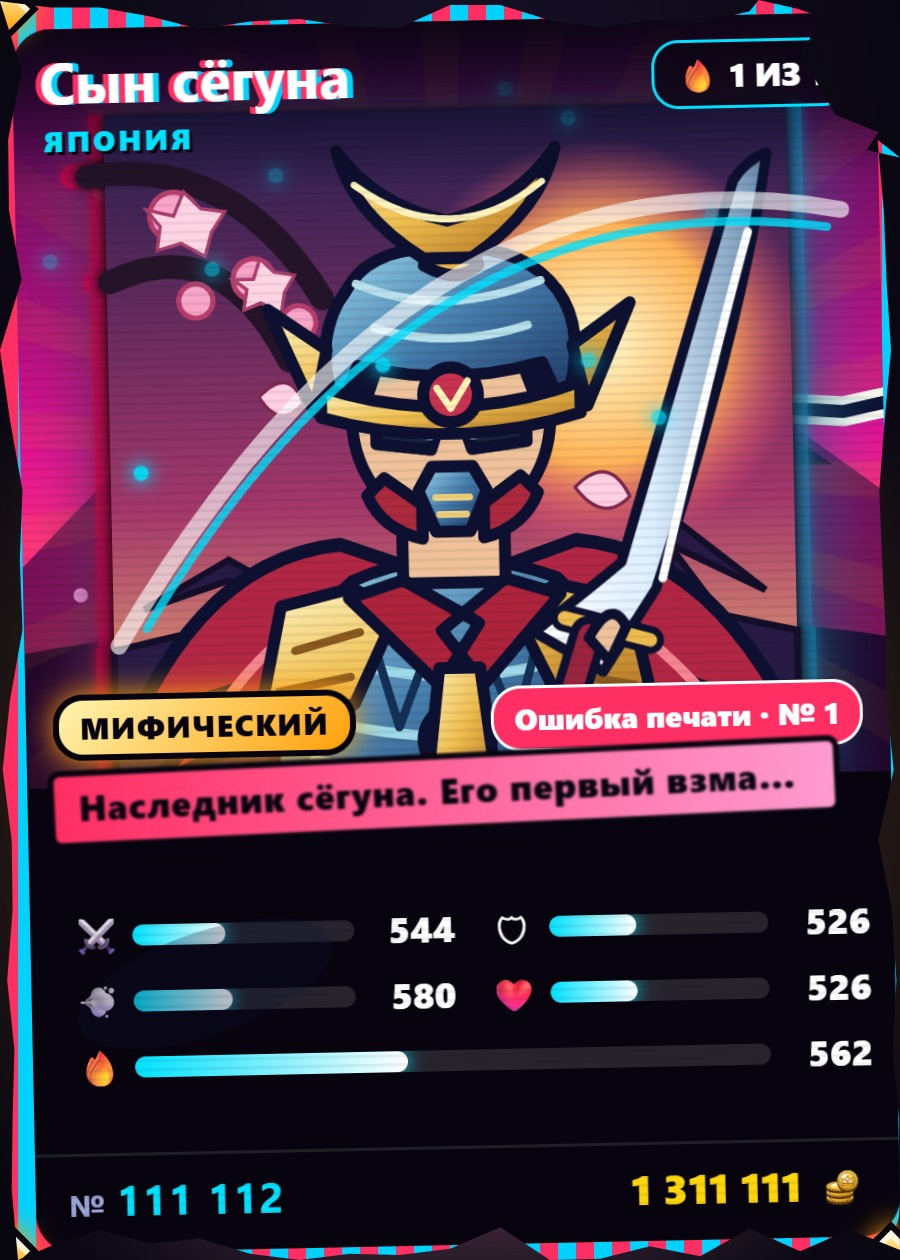
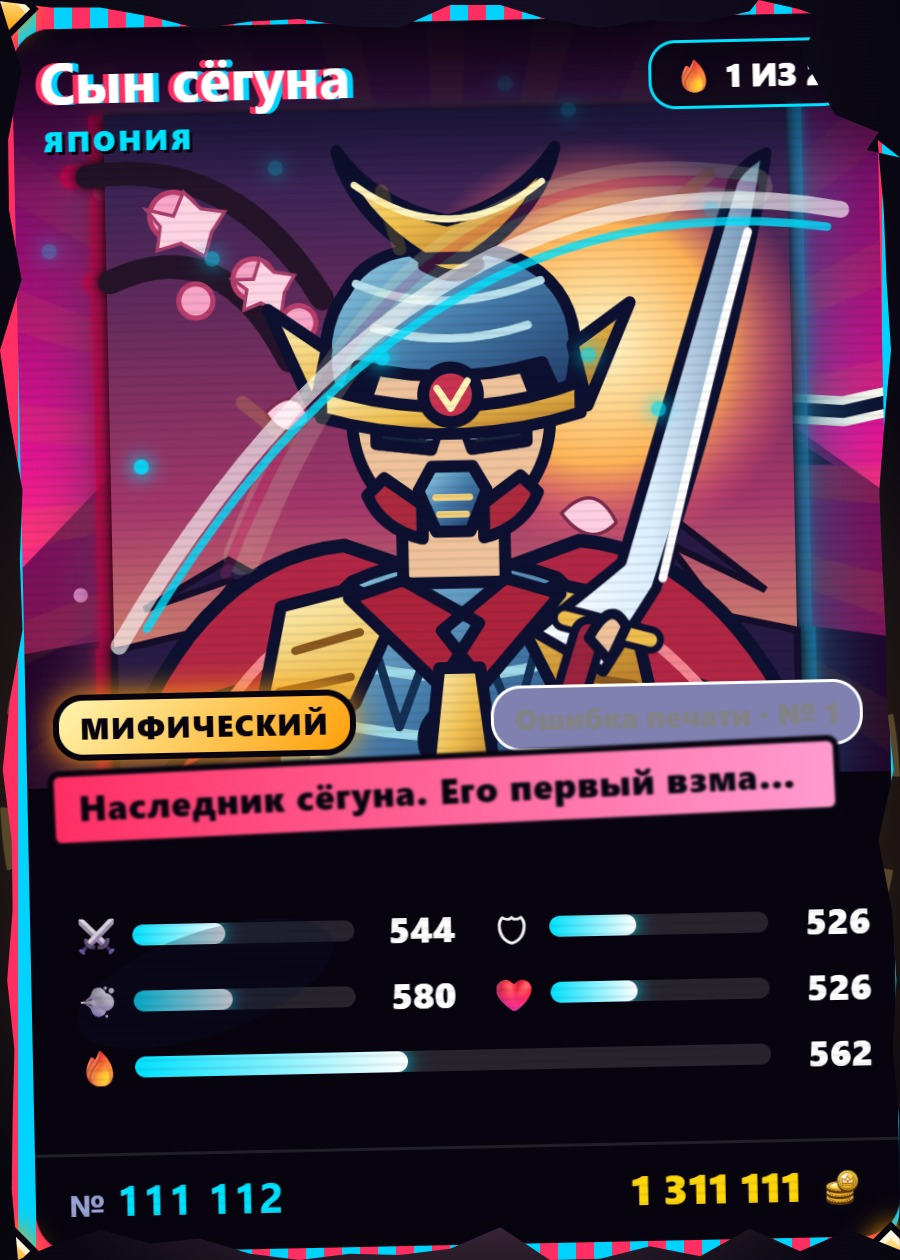
Keep Son of Shogun spin copy after purchase

diff --git a/server/worker.js b/server/worker.js
@@ -778,11 +778,12 @@ const DUEL_MIN=[60,130,260,500,1000];function duelBase(me,opp){return Math.min(M
 /* редкая карта (легенда, миф или любая отделка кроме обычной) — 10 000 монет за победу */
 const DUEL_RARE=10000,duelRare=c=>((HEROES[c.h]||[])[2]|0)>=3||(c.f|0)>0;function duelPay(me,opp){return duelRare(me)?DUEL_RARE:Math.round(duelBase(me,opp)*.3+5)}
 function dcSn(ctx,c,sn){try{if(sn&&ctx.snFree&&ctx.snFree(sn)){const v0=priceOf(c.h,c.f,c.no,c.sn,0)||1;c.sn=sn;if(ctx.takeSn)ctx.takeSn(sn);c.v=Math.round(c.v*(priceOf(c.h,c.f,c.no,sn,0)/v0)*100)/100}}catch(e){}}
-const SON_SHOGUN={name:"Сын сёгуна",sn:"111112",value:1311111,stats:[544,526,580,526,562]};
+const SON_SHOGUN={name:"Сын сёгуна",snBuy:"111112",snSpin:["111113","111114","111115","111116","111117","111118","111119"],value:1311111,stats:[544,526,580,526,562]};
 function dayCardMake(ctx,h,how){const son=HEROES[h][0]===SON_SHOGUN.name,preset=son?{stats:SON_SHOGUN.stats}:null;
-  if(son&&!ctx.snFree(SON_SHOGUN.sn))fail("Уникальный номер карты дня уже занят");
-  const c=makeCard(ctx,h,4,preset);c.how=how;dcSn(ctx,c,son?SON_SHOGUN.sn:HEROES[h][4][how==="dspin"?"sn2":"sn"]);
-  if(son){if(c.sn!==SON_SHOGUN.sn)fail("Уникальный номер карты дня уже занят");c.v=SON_SHOGUN.value}return c}
+  const sn=son?(how==="dspin"?SON_SHOGUN.snSpin.find(n=>ctx.snFree(n)):SON_SHOGUN.snBuy):HEROES[h][4][how==="dspin"?"sn2":"sn"];
+  if(son&&(!sn||!ctx.snFree(sn)))fail("Уникальный номер карты дня уже занят");
+  const c=makeCard(ctx,h,4,preset);c.how=how;dcSn(ctx,c,sn);
+  if(son){if(c.sn!==sn)fail("Уникальный номер карты дня уже занят");c.v=SON_SHOGUN.value}return c}
 function xhApply(X){for(const k in X||{}){const H=HEROES[+k],x=X[k];if(!H||!H[4].day||!x)continue;H[0]=String(x.n||"Карта дня").slice(0,40);H[1]=String(x.e||"Карта дня").slice(0,40);H[3]=String(x.d||"").slice(0,200);
   const o=x.o||{};for(const q of ["helm","weapon","armor","shield","cape","hair","hairc","glow","crest","fierce","female","gold","hue","skin","x","p","sn","sn2"])if(o[q]!=null)H[4][q]=o[q];H[4].hid=x.on?0:1}}
 SHOP.kolobok={n:"Колобок · Ошибка печати",stars:1700,kolo:1,until:Date.UTC(2026,10,12,20,59),d:["🟡 <b>Колобок</b> — анимированная «Ошибка печати»","продаётся <b>только сегодня</b> до 23:59","потом пропадёт — вернётся ли, неизвестно"]};
@@ -2436,8 +2437,8 @@ async function doAction(env,me,name,p,extra){try{await xhLoad(env)}catch(e){}let
       if(id===ctx.giveAway)stm.push(env.DB.prepare(`UPDATE cards SET owner=? WHERE id=? AND owner=? AND list_price IS NULL AND ${guard}`).bind(ctx.oppUid,id,me.id,me.id,nv));   // проиграл игроку: карточка уходит к нему
       else stm.push(env.DB.prepare(`DELETE FROM cards WHERE id=? AND owner=? AND list_price IS NULL AND room_id IS NULL AND ${guard}`).bind(id,me.id,me.id,nv))}
     stm.push(...ins);
-    for(const c of out.cards)if(typeof c.id==="string"&&(c.how==="dspin"||c.how==="dbuy")&&dcOf(c.h)?.one)
-      stm.push(env.DB.prepare(`INSERT INTO kv(k,v) SELECT ?,? WHERE ${guard}`).bind("dc:claimed:"+c.h,JSON.stringify({how:c.how,uid:me.id,t:ctx.now}),me.id,nv));
+    for(const c of out.cards)if(typeof c.id==="string"&&(c.how==="dspin"||c.how==="dbuy")&&(dcOf(c.h)?.one||HEROES[c.h][0]===SON_SHOGUN.name))
+      stm.push(env.DB.prepare(`INSERT INTO kv(k,v) SELECT ?,? WHERE ${guard}`).bind("dc:claimed:"+c.h+(HEROES[c.h][0]===SON_SHOGUN.name?":"+c.how:""),JSON.stringify({how:c.how,uid:me.id,t:ctx.now}),me.id,nv));
     if(take)stm.unshift(take);
     let rs;try{rs=await env.DB.batch(stm)}catch(e){if(/UNIQUE/i.test(String(e&&e.message||e)))continue;throw e}
     if(take&&rs[0].meta.changes!==1)fail("Соперник только что убрал эту карточку. Бой отменён, попробуй ещё раз");
@@ -4025,7 +4026,7 @@ const DC_PLAN={"2026-11-14":[{n:"Кощей",e:"Сказки Руси",d:"Бес
   "2026-11-18":[{n:"Один",e:"Асгард",d:"Всеотец богов. Отдал глаз за мудрость, а вороны Хугин и Мунин каждое утро приносят ему вести со всего мира. Копьё Гунгнир никогда не промахивается.",o:{p:[9,8,8,8,9],sn:"171117",sn2:"111000"},from:15,to:20.5,stars:3200,ch:.0004,lock:3,one:1},
   {n:"Банда",e:"Сказки и легенды",d:"Баба Яга, Кощей и Дракула снова вместе. Яга кружит в ступе, Кощей крутит свою иглу, а Дракула так и норовит кого-нибудь укусить.",o:{p:[7,7,7,7,7],sn:"373737",sn2:"474747"},from:15,to:20.5,stars:2500,ch:.0006,lock:3},
   {n:"Локи",e:"Асгард",d:"Бог обмана. Огонь вместо волос, змей Ёрмунганд на плечах и маска лиса в руке. Моргнёшь — и рядом уже двое Локи. Какой из них настоящий?",o:{p:[8,8,8,8,8],sn:"181118",sn2:"666000"},from:15,to:20.5,stars:2500,ch:.0004,lock:3,one:1}],
-  "2026-11-22":[{n:"Сын сёгуна",e:"Япония",d:"Наследник сёгуна. Его первый взмах катаны решает судьбу поединка.",o:{p:[8,7,10,7,9],sn:"111112",sn2:"111112"},from:18,to:22,stars:3311,ch:DSP.ch,one:1,guarantee:1}]};
+  "2026-11-22":[{n:"Сын сёгуна",e:"Япония",d:"Наследник сёгуна. Его первый взмах катаны решает судьбу поединка.",o:{p:[8,7,10,7,9],sn:"111112",sn2:"111113"},from:18,to:22,stars:3311,ch:DSP.ch,guarantee:1}]};
 let DCS=[];
 async function xhLoad(env,force){if(!force&&Date.now()-XHT<15e3)return;XHT=Date.now();try{XH=(await kvGet(env,"xh"))||{}}catch(e){XH={}}try{DC=await kvGet(env,"dc")}catch(e){DC=null}
   DCS=[];let k=0;Object.keys(DC_PLAN).sort().forEach(d=>{for(const P of [].concat(DC_PLAN[d])){const h=DAY_SLOTS[k++];if(h==null)return;XH[h]={...P,on:1};const [y,m,dd]=d.split("-").map(Number),at=Date.UTC(y,m-1,dd)+(P.from!=null?P.from:16)*36e5,until=Date.UTC(y,m-1,dd)+(P.to!=null?P.to:20)*36e5;
@@ -4033,6 +4034,12 @@ async function xhLoad(env,force){if(!force&&Date.now()-XHT<15e3)return;XHT=Date.
   xhApply(XH)}
 const dcOf=h=>DCS.find(x=>x.h===h)||null,dcOn=h=>{const X=h!=null?dcOf(h):DC;return !!(X&&Date.now()>=X.at&&Date.now()<X.until)};
 async function dcLeft(env,except,h){const X=h!=null?dcOf(h):DC;if(!X)return {buy:0,spin:0};const sold=((await env.DB.prepare("SELECT COUNT(*) AS n FROM payments WHERE item='daycard' AND created>=? AND id<>? AND COALESCE(json_extract(p,'$.h'),?)=? AND (status IN ('paid','done') OR (status='new' AND created>?))").bind(X.at-36e5,except||0,DCS[0]?DCS[0].h:X.h,X.h,Date.now()-PAY_HOLD).first())||{}).n||0;
+  const son=HEROES[X.h][0]===SON_SHOGUN.name;
+  if(son){const old=await env.DB.prepare("SELECT v FROM kv WHERE k=?").bind("dc:claimed:"+X.h).first();let oldHow="";try{oldHow=JSON.parse(old?.v||"{}").how||""}catch(e){}
+    const buy=oldHow==="dbuy"||!!(await env.DB.prepare("SELECT 1 FROM kv WHERE k=?").bind("dc:claimed:"+X.h+":dbuy").first());
+    const spin=oldHow==="dspin"||!!(await env.DB.prepare("SELECT 1 FROM kv WHERE k=?").bind("dc:claimed:"+X.h+":dspin").first());
+    const sp=((await env.DB.prepare("SELECT COUNT(*) AS n FROM cards WHERE h=? AND how='dspin'").bind(X.h).first())||{}).n||0;
+    return {buy:X.so?0:Math.max(0,1-sold-(buy?1:0)),spin:X.ns?0:Math.max(0,1-sp-(spin?1:0))}}
   if(X.one&&await env.DB.prepare("SELECT 1 FROM kv WHERE k=?").bind("dc:claimed:"+X.h).first())return {buy:0,spin:0};
   const sp=((await env.DB.prepare("SELECT COUNT(*) AS n FROM cards WHERE h=? AND how='dspin'").bind(X.h).first())||{}).n||0;if(X.one){const t=sold+sp;return {buy:X.so?0:Math.max(0,1-t),spin:X.ns?0:Math.max(0,1-t)}}return {buy:X.so?0:Math.max(0,1-sold),spin:X.ns?0:Math.max(0,1-sp)}}
 /* шанс Особого прокрута: у карты «только из прокрута» он растёт к концу, чтобы до полуночи её точно кто-то выбил */
@@ -5746,11 +5753,18 @@ async function relicReleaseTick(env){
  const chat=await relicReleasePhoto(env,"chat",env.CHAT||CHAT,base+"relics-chat.jpg");
  if(channel&&chat)await kvSet(env,"relic-release-20261120-art2",1);
 }
-const SON_RELEASE_TEXT="⚔ КАРТА ДНЯ: СЫН СЁГУНА!\n\nСегодня до 01:00 по Минску в игре доступна новая анимированная «Ошибка печати». Взмах катаны, лепестки сакуры и всего 1 экземпляр на всю игру.\n\n🎴 Оценка карты — 1 311 111 🪙\n⭐ Купить — 3311 звёзд\n🎰 Или выбить в Особом прокруте: шанс 0,3% до полуночи. С 00:00 до 01:00 первый Особый прокрут получает карту гарантированно, если её ещё не забрали.\n\nКарта достанется тому, кто первым её купит или выбьет. После 01:00 событие завершится.\n\n👉 @VoinyEpohBot";
+const SON_RELEASE_TEXT="⚔ КАРТА ДНЯ: СЫН СЁГУНА!\n\nДо 01:00 по Минску доступны 2 анимированные «Ошибки печати»: одна за 3311 ⭐ (№ 111112), вторая — только из Особого прокрута, с отдельным красивым номером. Покупка не закрывает шанс выбить вторую карту.\n\n🎴 Оценка каждой — 1 311 111 🪙\n🎰 Шанс в Особом прокруте до 00:00 — 0,3%. С 00:00 до 01:00 первый Особый прокрут гарантированно выбьет вторую карту, если её ещё не выбили.\n\nПосле 01:00 событие завершится.\n\n👉 @VoinyEpohBot";
 async function sonReleaseTick(env){const now=Date.now(),at=Date.UTC(2026,10,22,18),until=Date.UTC(2026,10,22,22);
  if(!env.BOT_TOKEN||env.DEV==="1"||now<at||now>=until)return;
- await recruitSend(env,"son-shogun-20261122:channel",env.CHANNEL||CHANNEL,SON_RELEASE_TEXT,
-  "https://raw.githubusercontent.com/prostovladon-prog/kruti-kvartiru-/main/assets/day-son-shogun.jpg");
+ const chan=env.CHANNEL||CHANNEL,photo="https://raw.githubusercontent.com/prostovladon-prog/kruti-kvartiru-/main/assets/day-son-shogun.jpg?v=2";
+ if(!(await recruitSend(env,"son-shogun-20261122:channel",chan,SON_RELEASE_TEXT,photo)))return;
+ if(await kvGet(env,"son-shogun-20261122:corrected"))return;
+ const sent=await kvGet(env,birthdayKey("recruit:son-shogun-20261122:channel"));if(!sent?.mid)return;
+ let r=await tgApi(env,"editMessageMedia",{chat_id:chan,message_id:sent.mid,media:{type:"photo",media:photo,caption:SON_RELEASE_TEXT},reply_markup:birthdayButton});
+ if(!r?.ok&&/message is not modified/i.test(r?.description||""))r={ok:true};
+ if(!r?.ok){await tgApi(env,"editMessageCaption",{chat_id:chan,message_id:sent.mid,caption:SON_RELEASE_TEXT,reply_markup:birthdayButton});
+   if(await recruitSend(env,"son-shogun-20261122:correction",chan,SON_RELEASE_TEXT,photo))r={ok:true}}
+ if(r?.ok)await kvSet(env,"son-shogun-20261122:corrected",1);
 }
 
 export default {

diff --git a/server/server.js b/server/server.js
@@ -769,8 +769,8 @@ async function doAction(env,me,name,p,extra){try{await xhLoad(env)}catch(e){}let
       if(id===ctx.giveAway)stm.push(env.DB.prepare(`UPDATE cards SET owner=? WHERE id=? AND owner=? AND list_price IS NULL AND ${guard}`).bind(ctx.oppUid,id,me.id,me.id,nv));   // проиграл игроку: карточка уходит к нему
       else stm.push(env.DB.prepare(`DELETE FROM cards WHERE id=? AND owner=? AND list_price IS NULL AND room_id IS NULL AND ${guard}`).bind(id,me.id,me.id,nv))}
     stm.push(...ins);
-    for(const c of out.cards)if(typeof c.id==="string"&&(c.how==="dspin"||c.how==="dbuy")&&dcOf(c.h)?.one)
-      stm.push(env.DB.prepare(`INSERT INTO kv(k,v) SELECT ?,? WHERE ${guard}`).bind("dc:claimed:"+c.h,JSON.stringify({how:c.how,uid:me.id,t:ctx.now}),me.id,nv));
+    for(const c of out.cards)if(typeof c.id==="string"&&(c.how==="dspin"||c.how==="dbuy")&&(dcOf(c.h)?.one||HEROES[c.h][0]===SON_SHOGUN.name))
+      stm.push(env.DB.prepare(`INSERT INTO kv(k,v) SELECT ?,? WHERE ${guard}`).bind("dc:claimed:"+c.h+(HEROES[c.h][0]===SON_SHOGUN.name?":"+c.how:""),JSON.stringify({how:c.how,uid:me.id,t:ctx.now}),me.id,nv));
     if(take)stm.unshift(take);
     let rs;try{rs=await env.DB.batch(stm)}catch(e){if(/UNIQUE/i.test(String(e&&e.message||e)))continue;throw e}
     if(take&&rs[0].meta.changes!==1)fail("Соперник только что убрал эту карточку. Бой отменён, попробуй ещё раз");
@@ -2358,7 +2358,7 @@ const DC_PLAN={"2026-11-14":[{n:"Кощей",e:"Сказки Руси",d:"Бес
   "2026-11-18":[{n:"Один",e:"Асгард",d:"Всеотец богов. Отдал глаз за мудрость, а вороны Хугин и Мунин каждое утро приносят ему вести со всего мира. Копьё Гунгнир никогда не промахивается.",o:{p:[9,8,8,8,9],sn:"171117",sn2:"111000"},from:15,to:20.5,stars:3200,ch:.0004,lock:3,one:1},
   {n:"Банда",e:"Сказки и легенды",d:"Баба Яга, Кощей и Дракула снова вместе. Яга кружит в ступе, Кощей крутит свою иглу, а Дракула так и норовит кого-нибудь укусить.",o:{p:[7,7,7,7,7],sn:"373737",sn2:"474747"},from:15,to:20.5,stars:2500,ch:.0006,lock:3},
   {n:"Локи",e:"Асгард",d:"Бог обмана. Огонь вместо волос, змей Ёрмунганд на плечах и маска лиса в руке. Моргнёшь — и рядом уже двое Локи. Какой из них настоящий?",o:{p:[8,8,8,8,8],sn:"181118",sn2:"666000"},from:15,to:20.5,stars:2500,ch:.0004,lock:3,one:1}],
-  "2026-11-22":[{n:"Сын сёгуна",e:"Япония",d:"Наследник сёгуна. Его первый взмах катаны решает судьбу поединка.",o:{p:[8,7,10,7,9],sn:"111112",sn2:"111112"},from:18,to:22,stars:3311,ch:DSP.ch,one:1,guarantee:1}]};
+  "2026-11-22":[{n:"Сын сёгуна",e:"Япония",d:"Наследник сёгуна. Его первый взмах катаны решает судьбу поединка.",o:{p:[8,7,10,7,9],sn:"111112",sn2:"111113"},from:18,to:22,stars:3311,ch:DSP.ch,guarantee:1}]};
 let DCS=[];
 async function xhLoad(env,force){if(!force&&Date.now()-XHT<15e3)return;XHT=Date.now();try{XH=(await kvGet(env,"xh"))||{}}catch(e){XH={}}try{DC=await kvGet(env,"dc")}catch(e){DC=null}
   DCS=[];let k=0;Object.keys(DC_PLAN).sort().forEach(d=>{for(const P of [].concat(DC_PLAN[d])){const h=DAY_SLOTS[k++];if(h==null)return;XH[h]={...P,on:1};const [y,m,dd]=d.split("-").map(Number),at=Date.UTC(y,m-1,dd)+(P.from!=null?P.from:16)*36e5,until=Date.UTC(y,m-1,dd)+(P.to!=null?P.to:20)*36e5;
@@ -2366,6 +2366,12 @@ async function xhLoad(env,force){if(!force&&Date.now()-XHT<15e3)return;XHT=Date.
   xhApply(XH)}
 const dcOf=h=>DCS.find(x=>x.h===h)||null,dcOn=h=>{const X=h!=null?dcOf(h):DC;return !!(X&&Date.now()>=X.at&&Date.now()<X.until)};
 async function dcLeft(env,except,h){const X=h!=null?dcOf(h):DC;if(!X)return {buy:0,spin:0};const sold=((await env.DB.prepare("SELECT COUNT(*) AS n FROM payments WHERE item='daycard' AND created>=? AND id<>? AND COALESCE(json_extract(p,'$.h'),?)=? AND (status IN ('paid','done') OR (status='new' AND created>?))").bind(X.at-36e5,except||0,DCS[0]?DCS[0].h:X.h,X.h,Date.now()-PAY_HOLD).first())||{}).n||0;
+  const son=HEROES[X.h][0]===SON_SHOGUN.name;
+  if(son){const old=await env.DB.prepare("SELECT v FROM kv WHERE k=?").bind("dc:claimed:"+X.h).first();let oldHow="";try{oldHow=JSON.parse(old?.v||"{}").how||""}catch(e){}
+    const buy=oldHow==="dbuy"||!!(await env.DB.prepare("SELECT 1 FROM kv WHERE k=?").bind("dc:claimed:"+X.h+":dbuy").first());
+    const spin=oldHow==="dspin"||!!(await env.DB.prepare("SELECT 1 FROM kv WHERE k=?").bind("dc:claimed:"+X.h+":dspin").first());
+    const sp=((await env.DB.prepare("SELECT COUNT(*) AS n FROM cards WHERE h=? AND how='dspin'").bind(X.h).first())||{}).n||0;
+    return {buy:X.so?0:Math.max(0,1-sold-(buy?1:0)),spin:X.ns?0:Math.max(0,1-sp-(spin?1:0))}}
   if(X.one&&await env.DB.prepare("SELECT 1 FROM kv WHERE k=?").bind("dc:claimed:"+X.h).first())return {buy:0,spin:0};
   const sp=((await env.DB.prepare("SELECT COUNT(*) AS n FROM cards WHERE h=? AND how='dspin'").bind(X.h).first())||{}).n||0;if(X.one){const t=sold+sp;return {buy:X.so?0:Math.max(0,1-t),spin:X.ns?0:Math.max(0,1-t)}}return {buy:X.so?0:Math.max(0,1-sold),spin:X.ns?0:Math.max(0,1-sp)}}
 /* шанс Особого прокрута: у карты «только из прокрута» он растёт к концу, чтобы до полуночи её точно кто-то выбил */
@@ -4079,11 +4085,18 @@ async function relicReleaseTick(env){
  const chat=await relicReleasePhoto(env,"chat",env.CHAT||CHAT,base+"relics-chat.jpg");
  if(channel&&chat)await kvSet(env,"relic-release-20261120-art2",1);
 }
-const SON_RELEASE_TEXT="⚔ КАРТА ДНЯ: СЫН СЁГУНА!\n\nСегодня до 01:00 по Минску в игре доступна новая анимированная «Ошибка печати». Взмах катаны, лепестки сакуры и всего 1 экземпляр на всю игру.\n\n🎴 Оценка карты — 1 311 111 🪙\n⭐ Купить — 3311 звёзд\n🎰 Или выбить в Особом прокруте: шанс 0,3% до полуночи. С 00:00 до 01:00 первый Особый прокрут получает карту гарантированно, если её ещё не забрали.\n\nКарта достанется тому, кто первым её купит или выбьет. После 01:00 событие завершится.\n\n👉 @VoinyEpohBot";
+const SON_RELEASE_TEXT="⚔ КАРТА ДНЯ: СЫН СЁГУНА!\n\nДо 01:00 по Минску доступны 2 анимированные «Ошибки печати»: одна за 3311 ⭐ (№ 111112), вторая — только из Особого прокрута, с отдельным красивым номером. Покупка не закрывает шанс выбить вторую карту.\n\n🎴 Оценка каждой — 1 311 111 🪙\n🎰 Шанс в Особом прокруте до 00:00 — 0,3%. С 00:00 до 01:00 первый Особый прокрут гарантированно выбьет вторую карту, если её ещё не выбили.\n\nПосле 01:00 событие завершится.\n\n👉 @VoinyEpohBot";
 async function sonReleaseTick(env){const now=Date.now(),at=Date.UTC(2026,10,22,18),until=Date.UTC(2026,10,22,22);
  if(!env.BOT_TOKEN||env.DEV==="1"||now<at||now>=until)return;
- await recruitSend(env,"son-shogun-20261122:channel",env.CHANNEL||CHANNEL,SON_RELEASE_TEXT,
-  "https://raw.githubusercontent.com/prostovladon-prog/kruti-kvartiru-/main/assets/day-son-shogun.jpg");
+ const chan=env.CHANNEL||CHANNEL,photo="https://raw.githubusercontent.com/prostovladon-prog/kruti-kvartiru-/main/assets/day-son-shogun.jpg?v=2";
+ if(!(await recruitSend(env,"son-shogun-20261122:channel",chan,SON_RELEASE_TEXT,photo)))return;
+ if(await kvGet(env,"son-shogun-20261122:corrected"))return;
+ const sent=await kvGet(env,birthdayKey("recruit:son-shogun-20261122:channel"));if(!sent?.mid)return;
+ let r=await tgApi(env,"editMessageMedia",{chat_id:chan,message_id:sent.mid,media:{type:"photo",media:photo,caption:SON_RELEASE_TEXT},reply_markup:birthdayButton});
+ if(!r?.ok&&/message is not modified/i.test(r?.description||""))r={ok:true};
+ if(!r?.ok){await tgApi(env,"editMessageCaption",{chat_id:chan,message_id:sent.mid,caption:SON_RELEASE_TEXT,reply_markup:birthdayButton});
+   if(await recruitSend(env,"son-shogun-20261122:correction",chan,SON_RELEASE_TEXT,photo))r={ok:true}}
+ if(r?.ok)await kvSet(env,"son-shogun-20261122:corrected",1);
 }
 
 export default {

diff --git a/gems.js b/gems.js
@@ -80,7 +80,7 @@ function dcT(ms){ms=Math.max(0,ms);const h=Math.floor(ms/36e5),m=Math.floor(ms%3
 let dcTmr=null;
 function dcOpen(){if(!S)return;$("modal").hidden=false;dcDraw();clearInterval(dcTmr);dcTmr=setInterval(()=>{if($("modal").hidden||!$("dc-t")){clearInterval(dcTmr);return}dcDraw(1)},1000)}
 /* настоящая карточка «Ошибка печати» — как она будет выглядеть в коллекции */
-const DCF={};function dcFace(h,i){try{if(!DCF[h]){const son=HEROES[h][0]===SON_SHOGUN.name,B=cardBody(h,4,son?{stats:SON_SHOGUN.stats}:null),sn=son?SON_SHOGUN.sn:(HEROES[h][4].sn)||"000001";DCF[h]={id:"dc"+h,h,f:4,no:1,sn,hue:B.hue,stats:B.stats,v:son?SON_SHOGUN.value:priceOf(h,4,1,sn,B.top),xp:0,stars:0}}return miniSlot(DCF[h])}catch(e){return portrait(h,null)}}
+const DCF={};function dcFace(h,i){try{if(!DCF[h]){const son=HEROES[h][0]===SON_SHOGUN.name,B=cardBody(h,4,son?{stats:SON_SHOGUN.stats}:null),sn=son?SON_SHOGUN.snBuy:(HEROES[h][4].sn)||"000001";DCF[h]={id:"dc"+h,h,f:4,no:1,sn,hue:B.hue,stats:B.stats,v:son?SON_SHOGUN.value:priceOf(h,4,1,sn,B.top),xp:0,stars:0}}return miniSlot(DCF[h])}catch(e){return portrait(h,null)}}
 function dcDraw(tick){const sh=$("msheet"),L0=S.dcs||(S.dc?[S.dc]:[]),now=Date.now();
   if(tick){L0.forEach((D,i)=>{const e=$("dc-t"+i);if(e)e.textContent=now<D.at?"старт через "+dcT(D.at-now):now<D.until?"осталось "+dcT(D.until-now):"завершено"});if($("dc-x"))return}
   let h='<div class="gemw"><div class="gem-h"><b>🌙 Карта дня'+(L0.length>1?' · '+L0.length+' карты':'')+'</b><button type="button" class="ghost" id="dc-x">✕</button></div>';
@@ -89,7 +89,7 @@ function dcDraw(tick){const sh=$("msheet"),L0=S.dcs||(S.dc?[S.dc]:[]),now=Date.n
     h+='<div class="dc-card"><div class="dc-mc">'+dcFace(D.h,i)+'</div><div><b class="dc-n">'+escH(H[0])+'</b><small>'+escH(H[1])+' · Ошибка печати</small><p>'+escH(H[3])+'</p><span class="dc-t" id="dc-t'+i+'"></span></div></div>';
     h+='<div class="dc-left"><div class="'+(L.buy?"":"off")+'">⭐ За звёзды<b>'+(L.buy?"1 из 1":"продано")+'</b></div><div class="'+(L.spin?"":"off")+'">🎰 Из прокрута<b>'+(D.ns?"не выпадает":L.spin?"1 из 1":"выбита")+'</b></div></div>';
     if(D.ns)h+='<div class="dc-so">💀 '+escH(H[0])+' продаётся <b>только за звёзды</b> — в Особом прокруте не выпадает.</div>';
-    if(!D.ns)h+='<div class="dc-so">🎰 '+escH(H[0])+(D.so?' <b>не продаётся</b> — только выбить в Особом прокруте, всего 1 экземпляр.':D.one?' — <b>одна карта на всю игру</b>: достанется первому покупателю за ⭐ или победителю Особого прокрута.':' — второй экземпляр выбивается в Особом прокруте.')+' Шанс <b>'+String(+((D.ch||0)*100).toFixed(2)).replace(".",",")+'%</b> за прокрут'+(D.guarantee?' до последнего часа. В последний час — <b>100%</b> для первого Особого прокрута, если карту ещё не забрали.':': <b>одинаковый весь вечер</b>, от времени не зависит.')+'</div>';
+    if(!D.ns)h+='<div class="dc-so">🎰 '+escH(H[0])+(D.so?' <b>не продаётся</b> — только выбить в Особом прокруте, всего 1 экземпляр.':D.one?' — <b>одна карта на всю игру</b>: достанется первому покупателю за ⭐ или победителю Особого прокрута.':' — второй экземпляр выбивается в Особом прокруте, даже если первый уже купили за ⭐.')+' Шанс <b>'+String(+((D.ch||0)*100).toFixed(2)).replace(".",",")+'%</b> за прокрут'+(D.guarantee?' до последнего часа. В последний час — <b>100%</b> для первого Особого прокрута, если экземпляр из прокрута ещё не выбили.':': <b>одинаковый весь вечер</b>, от времени не зависит.')+'</div>';
     if(!D.so)h+='<button type="button" class="gem-go dc-buy" data-h="'+D.h+'"'+(on&&L.buy?"":" disabled")+'>⭐ Купить «'+escH(H[0])+'» за '+(D.stars||SHOP.daycard.stars)+'<small>достанется тому, кто оплатит первым · с '+dcHM(D.at)+' до '+dcHM(D.until)+'</small></button>'});
   if(!L0.length)h+='<p class="gem-p">Сегодня карты дня нет. Загляни вечером!</p>';
   {const Q=S.dq&&S.dq.d===today(now)?S.dq:{c:{},got:[]};h+='<div class="dq"><b class="dq-h">🎯 Задания за Особые прокруты</b>'+DQ.map((T,i)=>{const v=Math.min(T.n,dqProg(S,now,T.k)),ok=v>=T.n,got=Q.got.includes(i);return '<div class="dq-r'+(got?' got':'')+'"><i>'+T.ic+'</i><span>'+T.t+'<u><em style="width:'+Math.round(v/T.n*100)+'%"></em></u><small>'+v+' / '+T.n+'</small></span>'+(got?'<b>✅</b>':'<button type="button" class="mini2 dq-c" data-dq="'+i+'"'+(ok?'':' disabled')+'>+1 🎰</button>')+'</div>'}).join("")+

diff --git a/rules.js b/rules.js
@@ -776,11 +776,12 @@ const DUEL_MIN=[60,130,260,500,1000];function duelBase(me,opp){return Math.min(M
 /* редкая карта (легенда, миф или любая отделка кроме обычной) — 10 000 монет за победу */
 const DUEL_RARE=10000,duelRare=c=>((HEROES[c.h]||[])[2]|0)>=3||(c.f|0)>0;function duelPay(me,opp){return duelRare(me)?DUEL_RARE:Math.round(duelBase(me,opp)*.3+5)}
 function dcSn(ctx,c,sn){try{if(sn&&ctx.snFree&&ctx.snFree(sn)){const v0=priceOf(c.h,c.f,c.no,c.sn,0)||1;c.sn=sn;if(ctx.takeSn)ctx.takeSn(sn);c.v=Math.round(c.v*(priceOf(c.h,c.f,c.no,sn,0)/v0)*100)/100}}catch(e){}}
-const SON_SHOGUN={name:"Сын сёгуна",sn:"111112",value:1311111,stats:[544,526,580,526,562]};
+const SON_SHOGUN={name:"Сын сёгуна",snBuy:"111112",snSpin:["111113","111114","111115","111116","111117","111118","111119"],value:1311111,stats:[544,526,580,526,562]};
 function dayCardMake(ctx,h,how){const son=HEROES[h][0]===SON_SHOGUN.name,preset=son?{stats:SON_SHOGUN.stats}:null;
-  if(son&&!ctx.snFree(SON_SHOGUN.sn))fail("Уникальный номер карты дня уже занят");
-  const c=makeCard(ctx,h,4,preset);c.how=how;dcSn(ctx,c,son?SON_SHOGUN.sn:HEROES[h][4][how==="dspin"?"sn2":"sn"]);
-  if(son){if(c.sn!==SON_SHOGUN.sn)fail("Уникальный номер карты дня уже занят");c.v=SON_SHOGUN.value}return c}
+  const sn=son?(how==="dspin"?SON_SHOGUN.snSpin.find(n=>ctx.snFree(n)):SON_SHOGUN.snBuy):HEROES[h][4][how==="dspin"?"sn2":"sn"];
+  if(son&&(!sn||!ctx.snFree(sn)))fail("Уникальный номер карты дня уже занят");
+  const c=makeCard(ctx,h,4,preset);c.how=how;dcSn(ctx,c,sn);
+  if(son){if(c.sn!==sn)fail("Уникальный номер карты дня уже занят");c.v=SON_SHOGUN.value}return c}
 function xhApply(X){for(const k in X||{}){const H=HEROES[+k],x=X[k];if(!H||!H[4].day||!x)continue;H[0]=String(x.n||"Карта дня").slice(0,40);H[1]=String(x.e||"Карта дня").slice(0,40);H[3]=String(x.d||"").slice(0,200);
   const o=x.o||{};for(const q of ["helm","weapon","armor","shield","cape","hair","hairc","glow","crest","fierce","female","gold","hue","skin","x","p","sn","sn2"])if(o[q]!=null)H[4][q]=o[q];H[4].hid=x.on?0:1}}
 SHOP.kolobok={n:"Колобок · Ошибка печати",stars:1700,kolo:1,until:Date.UTC(2026,10,12,20,59),d:["🟡 <b>Колобок</b> — анимированная «Ошибка печати»","продаётся <b>только сегодня</b> до 23:59","потом пропадёт — вернётся ли, неизвестно"]};

diff --git a/game.js b/game.js
@@ -1056,7 +1056,7 @@ function fillFace(root,c){
   const q=s=>root.querySelector(s),H=HEROES[c.h],T=tierOf(c.h),F=FIN[c.f],st=c.stars||0;
   root.className="face front "+F.cls+(st?" star"+st:"")+(H[4].rl?" mega":"");root.style.setProperty("--hc",T.c);
   root.style.removeProperty("--edge");if(c.frame&&FRAMES[c.frame])root.dataset.frame=c.frame;else delete root.dataset.frame;
-  q(".top b").textContent=H[0];q(".top b").classList.toggle("lng",H[0].length>12);q(".top span").textContent=H[0]===SON_SHOGUN.name?"🔥 1 ИЗ 1":H[4].relic?"✨ 0,0001%":isComp(c.h)?"🧩 СОСТАВНОЙ":HEROES[c.h][4].one?"🔥 1 ИЗ 1":HEROES[c.h][4].duo?"♊ БЛИЗНЕЦ":HEROES[c.h][4].don?"⭐ ДОНАТ":HEROES[c.h][4].fan?"👑 ФАН №"+(c.no||1):HEROES[c.h][4].dgc?"🐉 "+(HEROES.filter(H=>H[4].dgc).indexOf(HEROES[c.h])+1)+"/7":"№ "+String(baseNo(c.h)).padStart(2,"0")+"/"+NHEROES;
+  q(".top b").textContent=H[0];q(".top b").classList.toggle("lng",H[0].length>12);q(".top span").textContent=H[0]===SON_SHOGUN.name?"🔥 "+c.no+" ИЗ 2":H[4].relic?"✨ 0,0001%":isComp(c.h)?"🧩 СОСТАВНОЙ":HEROES[c.h][4].one?"🔥 1 ИЗ 1":HEROES[c.h][4].duo?"♊ БЛИЗНЕЦ":HEROES[c.h][4].don?"⭐ ДОНАТ":HEROES[c.h][4].fan?"👑 ФАН №"+(c.no||1):HEROES[c.h][4].dgc?"🐉 "+(HEROES.filter(H=>H[4].dgc).indexOf(HEROES[c.h])+1)+"/7":"№ "+String(baseNo(c.h)).padStart(2,"0")+"/"+NHEROES;
   q(".hero").innerHTML=portrait(c.h,c);q(".era").textContent=H[1];q(".tier").textContent=T.k;
   const pw=q(".power");pw.textContent=H[3];if(st>=3){const eb=document.createElement("b");eb.textContent="«"+epithet(c)+"» ";pw.prepend(eb)}
   q(".stats").innerHTML=["Атака","Броня","Скорость","Выносливость","Боевой дух"].map((n,i)=>`<span>${n}</span><span class="num">${c.stats?eff(c,i):"?"}</span>`).join("");

diff --git a/index.html b/index.html
@@ -1,6 +1,6 @@
 <!doctype html>
 <html lang="ru">
-<head><meta name="app-ver" content="17c3158a1d">
+<head><meta name="app-ver" content="3912969087">
 <meta charset="utf-8">
 <meta http-equiv="Cache-Control" content="no-cache">
 <meta name="viewport" content="width=device-width,initial-scale=1,maximum-scale=1,user-scalable=no,viewport-fit=cover">
@@ -363,8 +363,8 @@
 </div></nav>
 <div class="toast" id="toast"></div>
 <div class="modal" id="modal" hidden><div class="sheet" id="msheet"></div></div>
-<script src="rules.js?v=f27d08a5"></script>
-<script src="game.js?v=712964cc"></script>
+<script src="rules.js?v=7e77296b"></script>
+<script src="game.js?v=50ba1352"></script>
 <script src="wow.js?v=44c206e4"></script>
 <script src="menu.js?v=7a5ac075"></script>
 <script src="dragon.js?v=3d8513aa"></script>
@@ -375,7 +375,7 @@
 <script src="ref.js?v=38ddd2ae"></script>
 <script src="tutor.js?v=05caac63"></script>
 <script src="admin.js?v=c5d4e913"></script>
-<script src="gems.js?v=cf4059bb"></script>
+<script src="gems.js?v=989afa95"></script>
 <script src="community.js?v=f6cce275"></script>
 </body>
 </html>

diff --git a/docs/SON_SHOGUN_20261122.md b/docs/SON_SHOGUN_20261122.md
@@ -1,9 +1,9 @@
 # Карта дня: Сын сёгуна — 22 ноября 2026
 
-Владелец согласовал игровой предпросмотр, оценку 1 311 111 🪙, цену покупки 3311 ⭐ и выпуск одной карты с номером 111112. Номер 111111 занят картой «Основатель», поэтому не используется повторно. Событие открывается после обновления VPS и заканчивается 23 ноября в 01:00 по Минску. С 00:00 шанс в Особом прокруте становится 100%, если единственный экземпляр ещё доступен. До этого шанс 0,3% за Особый прокрут. Звёздная покупка и выпадение конкурируют за один экземпляр; первый подтверждённый способ выдачи выигрывает.
+Владелец согласовал игровой предпросмотр, оценку 1 311 111 🪙 и цену покупки 3311 ⭐. Номер 111111 занят картой «Основатель», поэтому покупной экземпляр имеет №111112. После первой публикации владелец уточнил тираж: **один экземпляр за звёзды и отдельный экземпляр из Особого прокрута**. Покупка не закрывает выпадение. Для второго экземпляра используется первый свободный номер из 111113–111119. Событие заканчивается 23 ноября в 01:00 по Минску. С 00:00 шанс в Особом прокруте становится 100%, если экземпляр из прокрута ещё не выбит. До этого шанс 0,3% за Особый прокрут.
 
-Иллюстрация встроена в `game.js` как SVG, взмах катаны и окружающие эффекты анимируются в карточке. Фото поста снято через настоящий игровой `fillFace`: `assets/day-son-shogun.jpg`. После ручного обновления VPS серверный `sonReleaseTick` отправляет пост с фото в канал один раз, с повтором при временной ошибке Telegram. Фактическую отправку нужно проверить в канале.
+Иллюстрация встроена в `game.js` как SVG, взмах катаны и окружающие эффекты анимируются в карточке. Фото поста снято через настоящий игровой `fillFace`: `assets/day-son-shogun.jpg`. После ручного обновления VPS серверный `sonReleaseTick` отправляет пост с фото в канал один раз и исправляет уже отправленный пост, если там указана прежняя общая квота. Фактическую отправку или правку нужно проверить в канале.
 
-Выдача обоими способами использует `dayCardMake`, чтобы закрепить номер, характеристики и оценку. Для сохранения тиража после продажи карты системе в `kv` записывается `dc:claimed:<h>` внутри той же пачки, что и карточка. Запись уникальна; одновременные попытки не создают второй экземпляр. Особый прокрут без доступной карты не расходуется.
+Выдача обоими способами использует `dayCardMake`, чтобы закрепить номер, характеристики и оценку. Для сохранения тиража после продажи карты системе в `kv` записываются отдельные ключи `dc:claimed:<h>:dbuy` и `dc:claimed:<h>:dspin` внутри той же пачки, что и карточка. Старая запись `dc:claimed:<h>` читается с указанием способа получения: уже купленный экземпляр не блокирует экземпляр из прокрута. Особый прокрут без доступной карты не расходуется.
 
 Проверено локально: синтаксис JS, `git diff --check`, сборка `server/worker.js`, фиксированные номер/оценка/характеристики для обоих способов, окно 21:00–01:00 Минск, игровой экран карты дня и реальный шаблон карточки через headless Chrome. Требуется ручное обновление VPS владельцем командой `voiny-update`; продакшен база и реальная доставка поста локально не проверялись.
